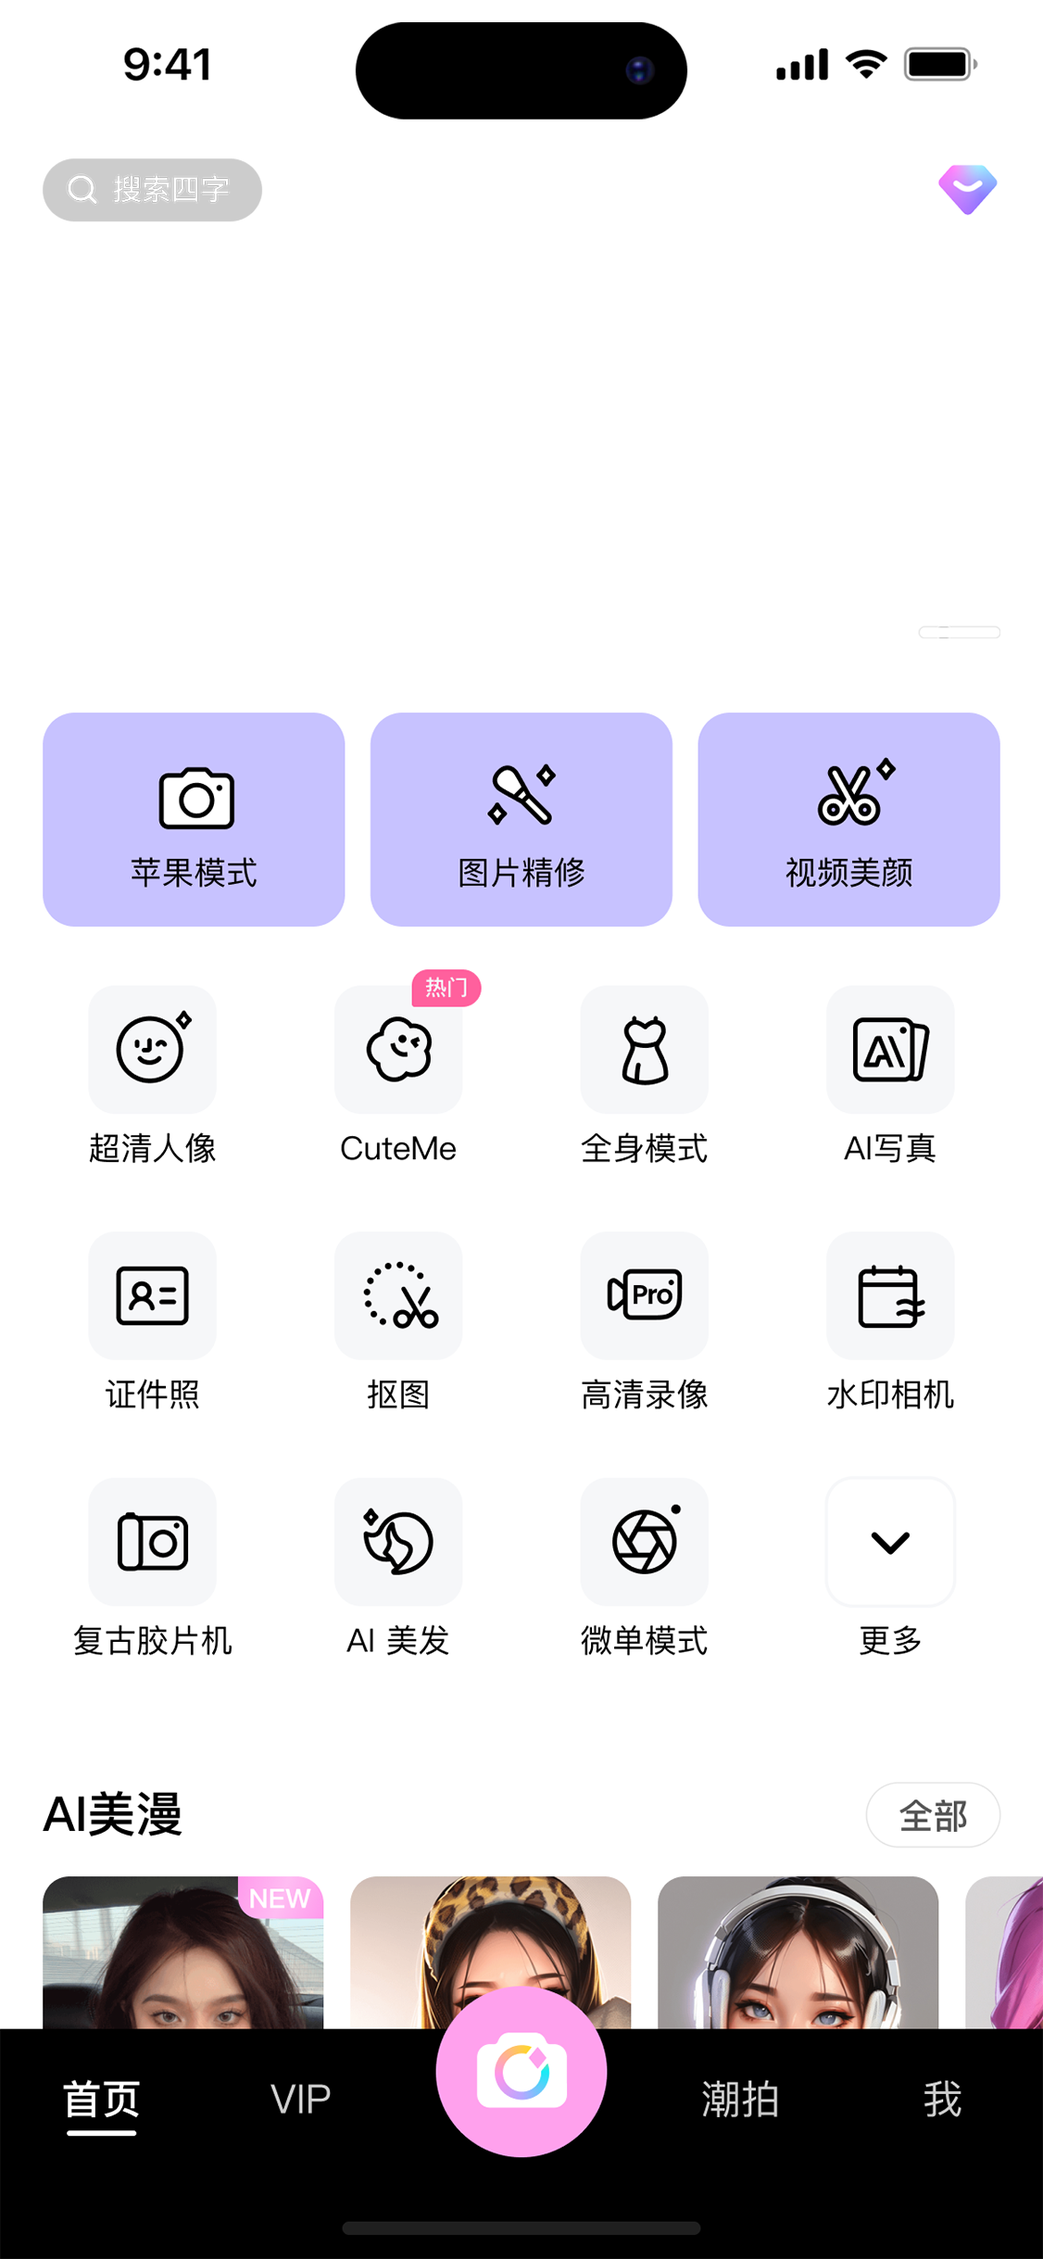
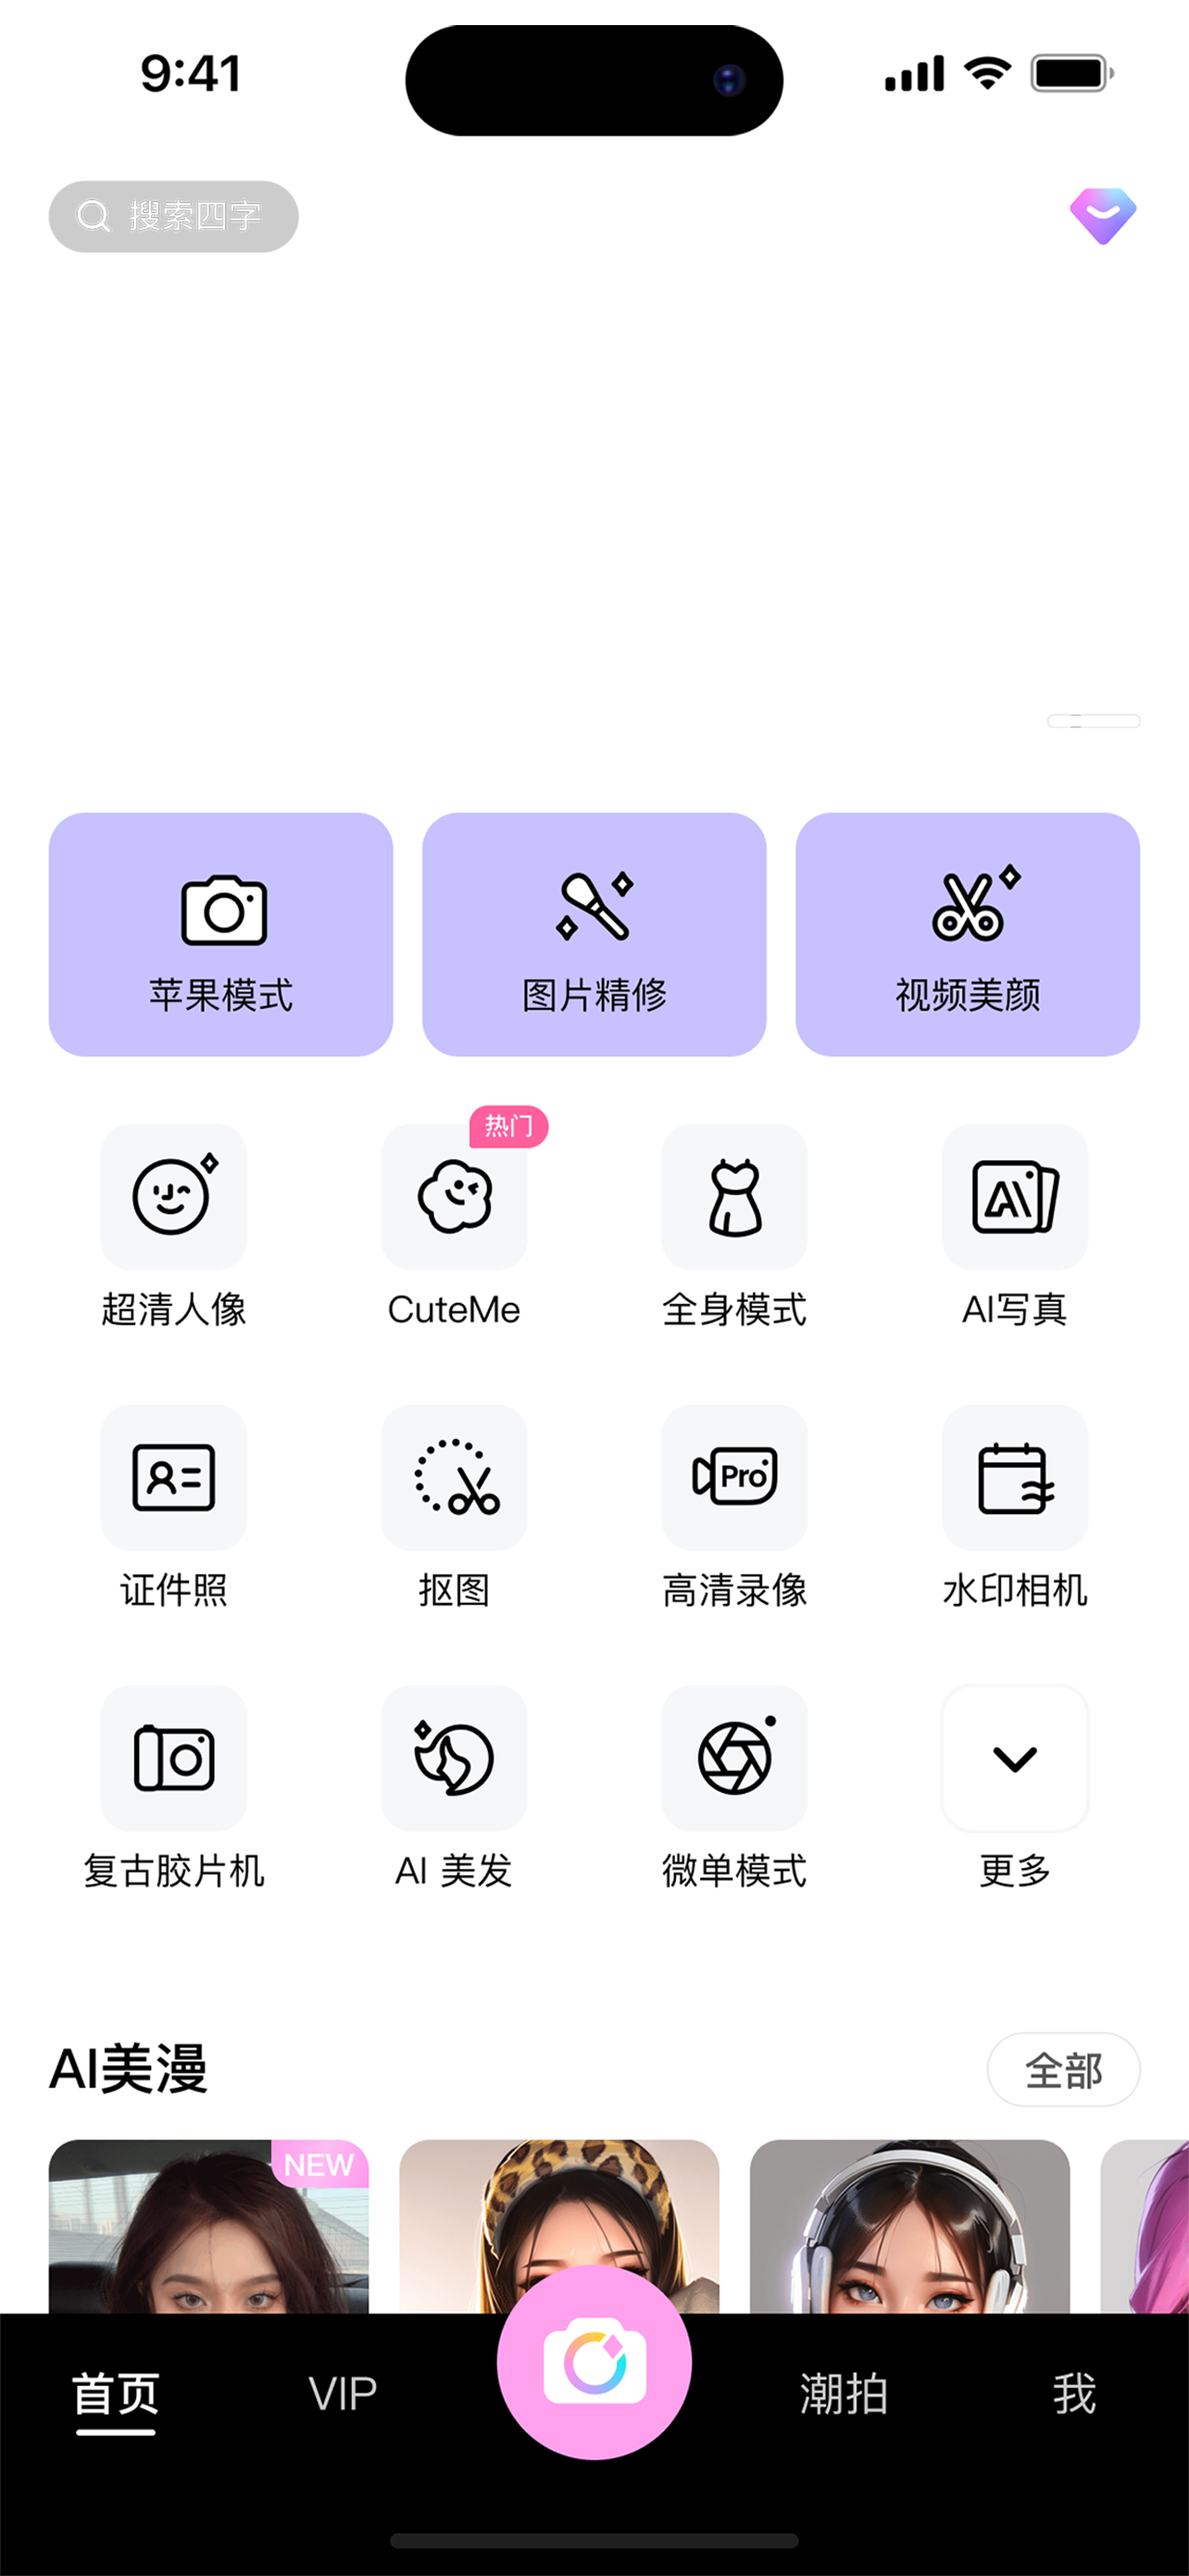
Align Meiyan focal badge overlay

diff --git a/components/PreviewGrid.tsx b/components/PreviewGrid.tsx
@@ -66,6 +66,7 @@ const AdCard: React.FC<{
   const shouldRenderFixedFocalChrome = localShowMask && asset.category === '焦点视窗' && !asset.templateName.includes('动态') && !shouldUsePlatformFocalMask;
   const shouldOffsetMeiyanFocal = localShowMask && asset.category === '焦点视窗' && asset.app === '美颜' && !!effectiveMaskUrl;
   const meiyanFocalOffsetStyle = shouldOffsetMeiyanFocal ? { transform: 'translateY(-3.9819cqh)' } : undefined;
+  const shouldAlignMeiyanFocalBadge = shouldOffsetMeiyanFocal && !!asset.badgeOverlayUrl;
 
   const aspectRatio = (localShowMask && (asset.category === '焦点视窗' || isHotRecommend || isHotSearch || isTopicBg || isTopicBanner || isPopup || isRecipeContent))
     ? ((asset.app === 'wink' || asset.app === '美颜') ? '1126 / 2438' : '1126 / 2436')
@@ -462,7 +463,7 @@ const AdCard: React.FC<{
         {localShowBadge && asset.badgeOverlayUrl && (asset.category === '焦点视窗' || asset.category === '弹窗' || isHotRecommend || isHotSearch || isTopicBg || isTopicBanner || isRecipeContent) && (
           <div
             className={`absolute pointer-events-none ${(isHotSearch || isTopicBanner) ? 'z-[45]' : (isScorePopup ? 'z-[55]' : (isHomePopup ? 'z-[55]' : (isTopicBg ? 'z-[15]' : (isRecipeContent ? 'z-[50]' : 'z-[50]'))))}`}
-            style={localShowMask ? (isHotRecommend ? { width: '25.57%', height: '15.76%', left: '62.87%', top: '73.02%' } : (isHotSearch ? { width: '13.86%', height: '6.40%', left: '14.92%', top: '53.08%' } : (isScorePopup ? { width: '85.26%', height: '59.11%', left: '7.37%', top: '19.91%' } : (isHomePopup ? { width: '85.26%', left: '7.37%', top: '50%', transform: 'translateY(-50%)' } : (isTopicBanner ? { width: '91.47%', height: '11.82%', left: '4.27%', top: '40.23%' } : (isRecipeContent ? { width: '44.968%', height: '27.717%', left: '4.085%', top: '61.124%' } : (isTopicBg ? { width: '100%', height: '26.27%', left: 0, top: 0 } : { top: 0, left: 0, width: '100%', height: isImmersiveFocal ? '100%' : '37%' }))))))) : { inset: 0 }}>
+            style={localShowMask ? (shouldAlignMeiyanFocalBadge ? { inset: 0, ...meiyanFocalOffsetStyle } : (isHotRecommend ? { width: '25.57%', height: '15.76%', left: '62.87%', top: '73.02%' } : (isHotSearch ? { width: '13.86%', height: '6.40%', left: '14.92%', top: '53.08%' } : (isScorePopup ? { width: '85.26%', height: '59.11%', left: '7.37%', top: '19.91%' } : (isHomePopup ? { width: '85.26%', left: '7.37%', top: '50%', transform: 'translateY(-50%)' } : (isTopicBanner ? { width: '91.47%', height: '11.82%', left: '4.27%', top: '40.23%' } : (isRecipeContent ? { width: '44.968%', height: '27.717%', left: '4.085%', top: '61.124%' } : (isTopicBg ? { width: '100%', height: '26.27%', left: 0, top: 0 } : { top: 0, left: 0, width: '100%', height: isImmersiveFocal ? '100%' : '37%' })))))))) : { inset: 0 }}>
             <img src={`${ASSETS_URL}${asset.badgeOverlayUrl}`} className={`w-full h-full ${localShowMask ? (isPopup ? (isScorePopup ? 'object-cover' : (isHomePopup ? 'object-contain' : 'object-cover')) : (isTopicBanner ? 'object-contain' : (isRecipeContent ? 'object-contain object-top' : 'object-contain object-top'))) : 'object-contain'}`} />
           </div>
         )}
@@ -620,6 +621,7 @@ const PreviewGrid: React.FC<PreviewGridProps> = ({ assets, config, onClear, onTo
   const shouldUseSelectedPlatformFocalMask = !!selectedAsset && selectedAssetInfo?.showMask && selectedAsset.category === '焦点视窗' && !selectedAsset.templateName.includes('动态') && (selectedAsset.app === '美颜' || selectedAsset.app === 'wink') && !!selectedAsset.maskUrl;
   const shouldOffsetSelectedMeiyanFocal = !!selectedAsset && selectedAssetInfo?.showMask && selectedAsset.category === '焦点视窗' && selectedAsset.app === '美颜' && !!selectedAsset.maskUrl;
   const selectedMeiyanFocalOffsetStyle = shouldOffsetSelectedMeiyanFocal ? { transform: 'translateY(-3.9819cqh)' } : undefined;
+  const shouldAlignSelectedMeiyanFocalBadge = shouldOffsetSelectedMeiyanFocal && !!selectedAsset?.badgeOverlayUrl;
 
   useEffect(() => {
     if (!templatePreviewAsset?.url) {
@@ -975,7 +977,8 @@ const PreviewGrid: React.FC<PreviewGridProps> = ({ assets, config, onClear, onTo
                           selectedAsset.id.includes('mt-ib-4') ? { width: '91.47%', height: '11.82%', left: '4.27%', top: '40.23%' } :
                             selectedAsset.id.includes('mt-ib-3') ? { width: '100%', height: '26.27%', left: 0, top: 0 } :
                               selectedAsset.id.includes('mt-fe-1') ? { width: '44.968%', height: '27.717%', left: '4.085%', top: '61.124%' } :
-                                { top: 0, left: 0, width: '100%', height: selectedAsset.templateName.includes('沉浸式') ? '100%' : '37%' }
+                                shouldAlignSelectedMeiyanFocalBadge ? { inset: 0, ...selectedMeiyanFocalOffsetStyle } :
+                                  { top: 0, left: 0, width: '100%', height: selectedAsset.templateName.includes('沉浸式') ? '100%' : '37%' }
                 ) : { inset: 0 }}>
                 <img src={`${ASSETS_URL}${selectedAsset.badgeOverlayUrl}`} className={`w-full h-full ${selectedAssetInfo.showMask ? (selectedAsset.category === '弹窗' ? (selectedAsset.id.includes('mt-p-1') ? 'object-cover rounded-[10px]' : 'object-contain') : (selectedAsset.id.includes('mt-ib-4') ? 'object-contain' : (selectedAsset.id.includes('mt-fe-1') ? 'object-contain object-top' : (selectedAsset.templateName.includes('沉浸式') ? 'object-cover object-top' : 'object-contain object-top')))) : 'object-contain'}`} />
               </div>

diff --git a/utils/assetCompositor.ts b/utils/assetCompositor.ts
@@ -207,15 +207,18 @@ export async function compositeAsset(asset: AdAsset, config: AdConfig): Promise<
             ctx.fillRect(0, 0, canvas.width, canvas.height);
         }
 
+        let focalContentRect = { x: 0, y: 0, w: targetW, h: targetH };
+
         if (showMask) {
             const dw = targetW;
             const dh = (mainImg.naturalHeight / mainImg.naturalWidth) * targetW;
             const baseColor = asset.aiExtractedColor || '#FF00FF';
             const finalGradientColor = asset.gradientColor || getDerivedGradientColor(baseColor);
+            const contentY = isMeiyan ? -97 : 0;
+            focalContentRect = { x: 0, y: contentY, w: dw, h: dh };
 
             if ((isWink || isMeiyan) && maskImg) {
                 // Meiyan & Wink Focal Window: Image FIRST, then Mask (on top)
-                const contentY = isMeiyan ? -97 : 0;
                 ctx.drawImage(mainImg, 0, contentY, dw, dh);
                 ctx.drawImage(maskImg, 0, 0, targetW, targetH);
             } else if (isImmersiveFocal) {
@@ -284,7 +287,9 @@ export async function compositeAsset(asset: AdAsset, config: AdConfig): Promise<
         }
 
         if (showBadge && badgeImg) {
-            if (showMask && isImmersiveFocal) {
+            if (showMask && isMeiyan && maskImg) {
+                ctx.drawImage(badgeImg, focalContentRect.x, focalContentRect.y, focalContentRect.w, focalContentRect.h);
+            } else if (showMask && isImmersiveFocal) {
                 // 对于沉浸式，角标应与主图对齐 (主图是 dw, dh 绘制)
                 // 沉浸式焦点视窗的角标是 object-cover object-top
                 drawImageCover(ctx, badgeImg, 0, 0, targetW, (badgeImg.naturalHeight / badgeImg.naturalWidth) * targetW);

diff --git a/utils/videoCompositor.ts b/utils/videoCompositor.ts
@@ -178,8 +178,13 @@ export async function exportVideoElements(asset: AdAsset, config: AdConfig, vide
             videoRect = {x:0, y:0, w:targetW, h:targetH};
         }
         if (showBadge && badgeImg) {
-            const bH = (showMask && isImmersiveFocal) ? 2436 : ((showMask && !isWink) ? 900 : targetH);
-            drawImageContain(fgCtx, badgeImg, 0, 0, targetW, bH, 'top');
+            const isMeiyan = asset.app === '美颜';
+            if (showMask && isMeiyan && maskImg) {
+                fgCtx.drawImage(badgeImg, videoRect.x, videoRect.y, videoRect.w, videoRect.h);
+            } else {
+                const bH = (showMask && isImmersiveFocal) ? 2436 : ((showMask && !isWink) ? 900 : targetH);
+                drawImageContain(fgCtx, badgeImg, 0, 0, targetW, bH, 'top');
+            }
         }
 
     } else if (isHotRecommend) {
